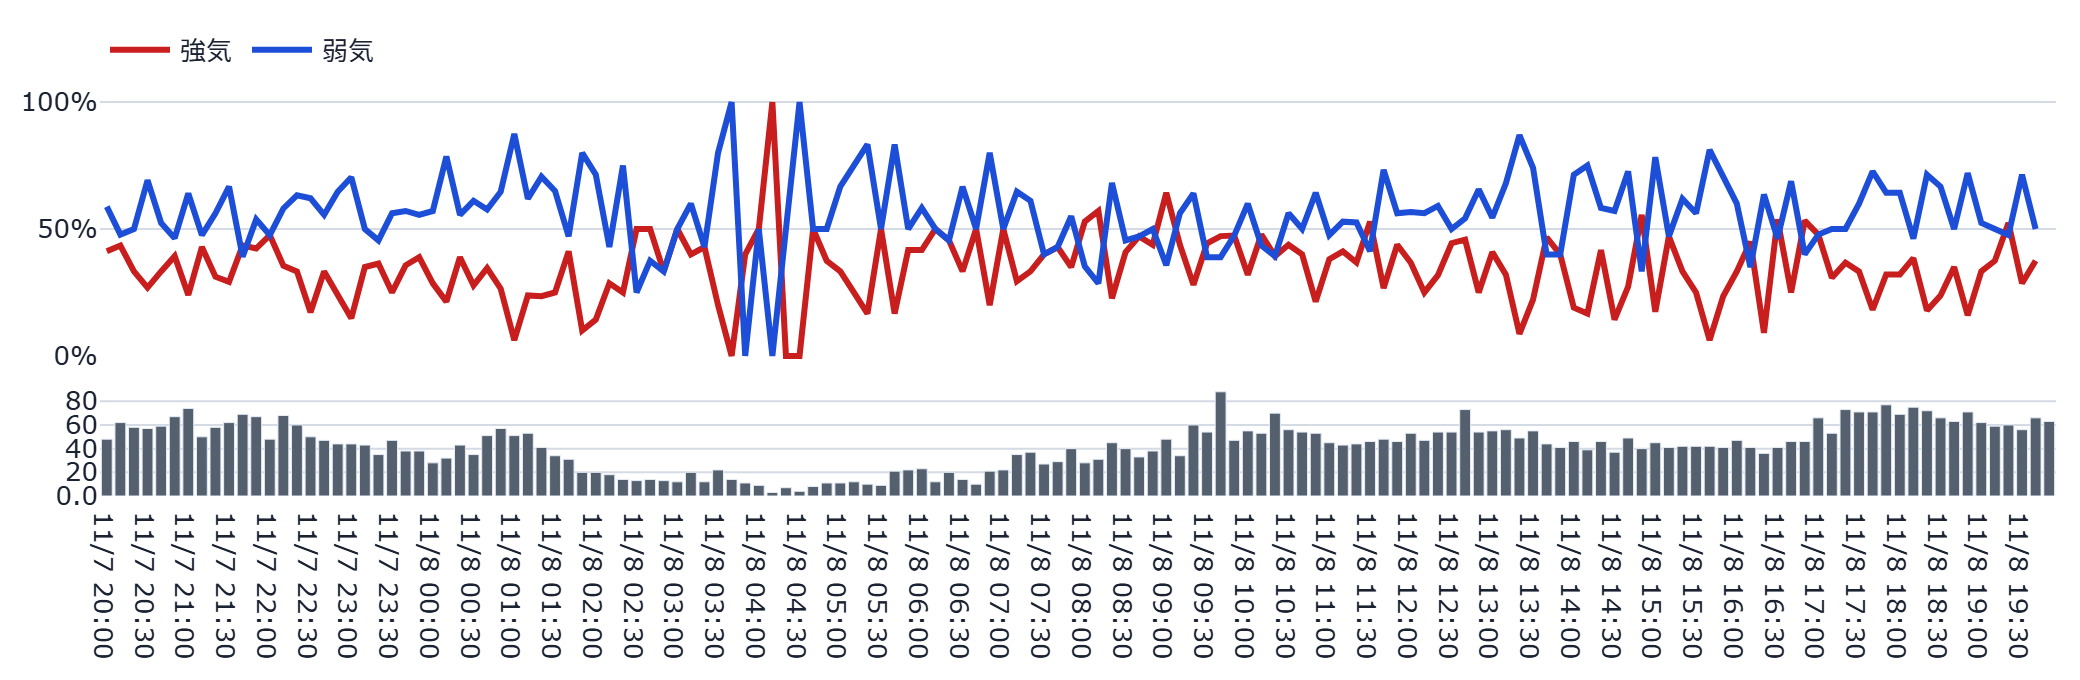
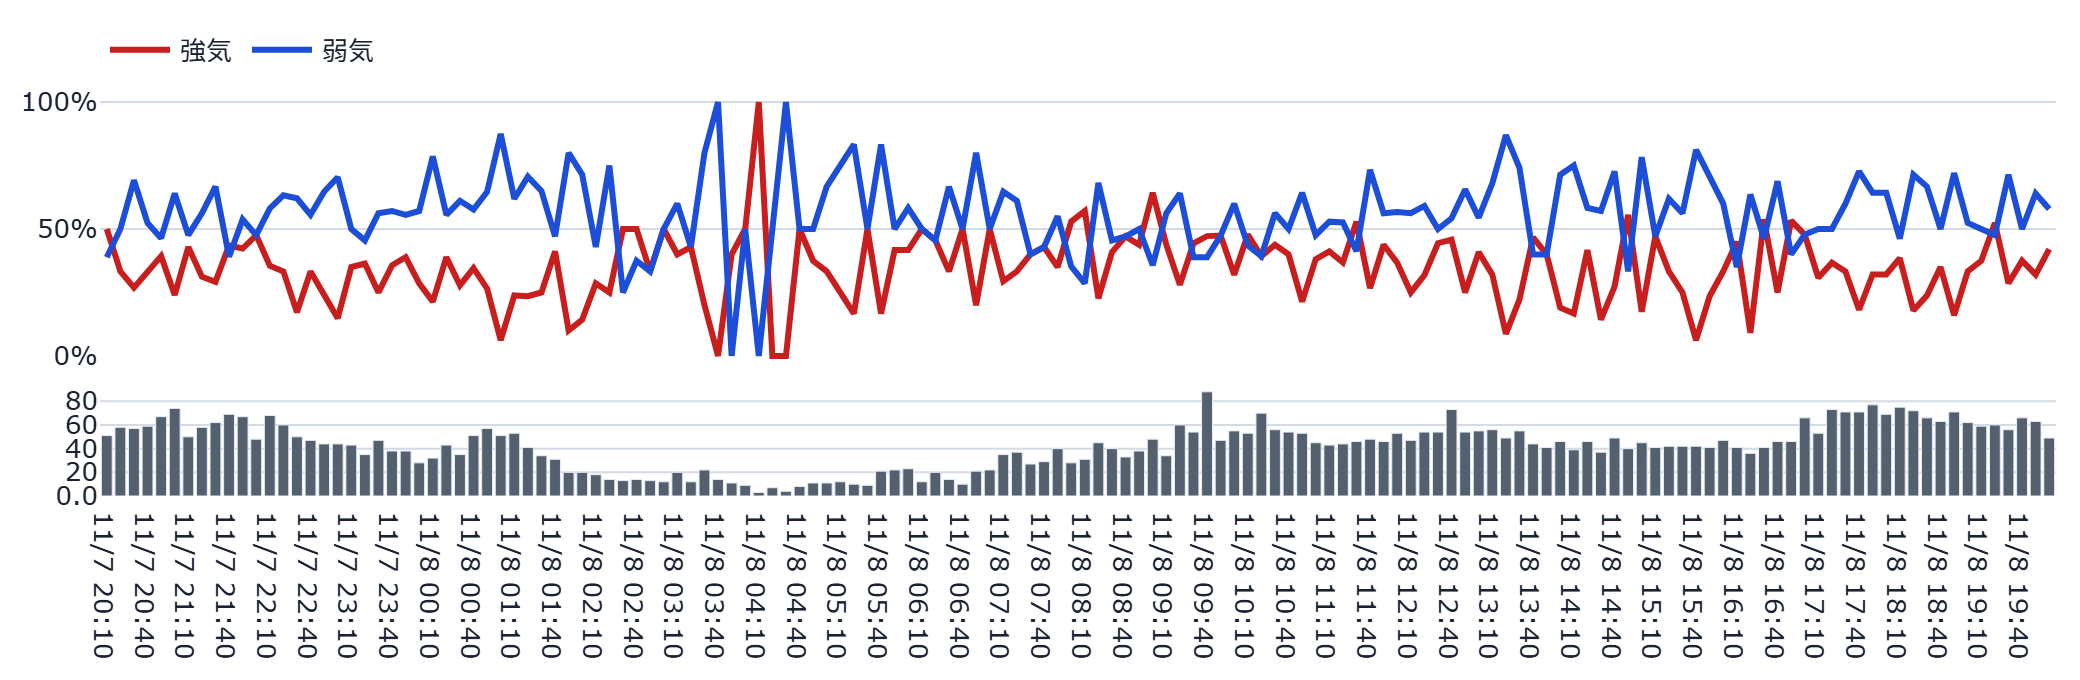
auto: refresh static dashboard (2026-11-08 20:21:00 JST)

diff --git a/docs/index.html b/docs/index.html
@@ -144,10 +144,10 @@
         <span class="price">8,511円</span>
         <span class="chg" style="color:#8B94A3">—</span>
       </div>
-      <p class="caption">更新時刻: 2026-11-08T20:01:11（データは1分間隔で自動生成され、このページも
+      <p class="caption">更新時刻: 2026-11-08T20:11:24（データは1分間隔で自動生成され、このページも
       60秒毎に自動再読み込みされます）</p>
       
-      <p id='visit-count-badge' class='caption'>👀 累計閲覧数: 12,824</p>
+      <p id='visit-count-badge' class='caption'>👀 累計閲覧数: 12,826</p>
       <p id='like-button-wrap' class='caption'><button id='like-button' type='button' style='cursor:pointer;border:1px solid var(--border);border-radius:6px;padding:1px 10px;margin-right:6px;background:var(--panel);color:var(--text);font-size:1em;vertical-align:middle'>👍</button><span id='like-count-label'>このダッシュボードが役に立ったら押してください（累計 4 いいね）</span></p>
 
       <!-- ★2026-09-08追加(ユーザー指示「AI考察はトップに移動」): モニタ
@@ -155,9 +155,9 @@
            常時最上部に表示する。 -->
       <h2>🤖 AI考察</h2>
       <div class='panel' id='ai-schedule'><h3>🗓 AI考察の予定</h3><ul><li>平日の立会日に、寄り前 08:50／寄り直後 09:10／前場引け前 11:30／大引け後 15:45 の4時点で考察を更新します（考察はClaude(AI)が書きます）。</li><li>土日祝などの休場日は考察を書きません。</li><li>時点の間は、数値のみを約10分ごとに更新します（文章は次の時点まで更新されません）。</li><li>次の予定: 11-09 08:50（寄り前）／直近の更新: 11-06 17:31（自動生成）</li></ul></div>
-      <div class='panel' id='numeric-summary'><h3>📊 数値要約｜20:01 更新</h3><ul><li>株価: 8,511円</li><li>掲示板: 強気 34.6%／弱気 56.7%／中立 8.7%・投稿 4,830件（約242件/時）</li><li>シグナル: 発火＝阿鼻叫喚(セリクラ)(40.5)・話題枯れ(-1.19)／警戒＝他銘柄混入率(0.1)・暴落煽り語彙(4)／平常＝灼熱メーター(過熱)(5)・そう思う大量票(19)・イナゴ語彙(euphoria)(1.9)・ネームド集中(0.05)ほか</li><li>変化点: 前回の数値要約から大きな変化なし</li></ul><p class='caption'>強気・弱気は機械判定（辞書＋軽量モデル）の値です。日単位の向きはLM判定と近く（相関0.8台）、時間単位は粗い点に注意してください。</p></div>
+      <div class='panel' id='numeric-summary'><h3>📊 数値要約｜20:11 更新</h3><ul><li>株価: 8,511円</li><li>掲示板: 強気 34.7%／弱気 56.8%／中立 8.5%・投稿 4,879件（約232件/時）</li><li>シグナル: 発火＝阿鼻叫喚(セリクラ)(40.5)・話題枯れ(-1.19)／警戒＝他銘柄混入率(0.1)・暴落煽り語彙(4.2)／平常＝灼熱メーター(過熱)(5)・そう思う大量票(19)・イナゴ語彙(euphoria)(1.9)・ネームド集中(0.05)ほか</li><li>変化点: 前回の数値要約から大きな変化なし</li></ul><p class='caption'>強気・弱気は機械判定（辞書＋軽量モデル）の値です。日単位の向きはLM判定と近く（相関0.8台）、時間単位は粗い点に注意してください。</p></div>
       
-      <div class='metric-row'><div class='metric-card'><div class='metric-label'>株価</div><div class='metric-value'>8,511円</div><div class='metric-delta'>+0円</div></div><div class='metric-card'><div class='metric-label'>強気比率</div><div class='metric-value'>34.6%</div><div class='metric-delta'>+0.0pt</div></div><div class='metric-card'><div class='metric-label'>弱気比率</div><div class='metric-value'>56.7%</div><div class='metric-delta'>+0.0pt</div></div></div><p class='caption'>前回集計(2026-11-08T19:51:18)との比較</p>
+      <div class='metric-row'><div class='metric-card'><div class='metric-label'>株価</div><div class='metric-value'>8,511円</div><div class='metric-delta'>+0円</div></div><div class='metric-card'><div class='metric-label'>強気比率</div><div class='metric-value'>34.7%</div><div class='metric-delta'>+0.1pt</div></div><div class='metric-card'><div class='metric-label'>弱気比率</div><div class='metric-value'>56.8%</div><div class='metric-delta'>+0.1pt</div></div></div><p class='caption'>前回集計(2026-11-08T20:01:11)との比較</p>
       <div class='ai-box'>※無料公開データを機械的に集計した観測情報であり、投資助言・売買推奨ではありません。（11-06 大引け後の整理・17:31時点）<br>
 <br>
 ■ 本日の285A：寄りが遅れた日<br>
@@ -208,7 +208,7 @@
             <h3>ボラ・レジーム帯</h3>
             <figure><img src='images/regime_band.png' alt='ボラ・レジーム帯' loading='lazy'></figure>
             <p class='caption'>現在レジーム: 較正中　(BVP=0.607)</p>
-            <div class='metric-row'><div class='metric-card'><div class='metric-label'>PTS（11/07 01:58）</div><div class='metric-value'>8,725円</div><div class='metric-delta' style='color:#C81E1E'>+2.51%</div></div><div class='metric-card'><div class='metric-label'>米国ADR（11/07 05:59）</div><div class='metric-value'>8,653円</div><div class='metric-delta' style='color:#C81E1E'>+1.67%</div></div><div class='metric-card'><div class='metric-label'>DEX（11/08 20:00）</div><div class='metric-value'>8,643円</div><div class='metric-delta' style='color:#C81E1E'>+1.55%</div></div></div><p class='caption'>PTS=東証取引時間外の私設取引システム／ADR=米国預託証券／DEX=分散型取引所(Hyperliquid)の24時間取引・円換算(東証終値比)。翌営業日の値動きの参考情報です(それ自体が売買シグナルではありません)。</p>
+            <div class='metric-row'><div class='metric-card'><div class='metric-label'>PTS（11/07 01:58）</div><div class='metric-value'>8,725円</div><div class='metric-delta' style='color:#C81E1E'>+2.51%</div></div><div class='metric-card'><div class='metric-label'>米国ADR（11/07 05:59）</div><div class='metric-value'>8,653円</div><div class='metric-delta' style='color:#C81E1E'>+1.67%</div></div><div class='metric-card'><div class='metric-label'>DEX（11/08 20:10）</div><div class='metric-value'>8,651円</div><div class='metric-delta' style='color:#C81E1E'>+1.65%</div></div></div><p class='caption'>PTS=東証取引時間外の私設取引システム／ADR=米国預託証券／DEX=分散型取引所(Hyperliquid)の24時間取引・円換算(東証終値比)。翌営業日の値動きの参考情報です(それ自体が売買シグナルではありません)。</p>
           </div>
         </div>
 
@@ -232,7 +232,7 @@
 <div class='signal-row'><div class='signal-name'>イナゴ語彙(euphoria)<div class='signal-desc'>「爆上げ」「握力」等、熱狂・便乗を示す語彙が投稿にどれだけ含まれるか。</div></div><div class='signal-meta'><div class='signal-note'>euphoria指数1.9/100投稿</div><div><span style='display:inline-block;border-radius:999px;padding:2px 10px;font-size:.82em;font-weight:600;color:#fff;background:#15803D;white-space:nowrap'>OK (現在値1.90 / 閾値&gt;=5.5/100投稿)</span></div><div class='signal-spark'><figure><img src='images/spark_signal_2.png' alt='イナゴ語彙(euphoria)の推移' loading='lazy'></figure></div></div></div>
 <div class='signal-row'><div class='signal-name'>ネームド集中<div class='signal-desc'>特定の常連投稿者(ハッシュ化ID)に投稿が偏っていないか(少数の声が目立ちすぎていないか)。</div></div><div class='signal-meta'><div class='signal-note'>上位5人シェア5%</div><div><span style='display:inline-block;border-radius:999px;padding:2px 10px;font-size:.82em;font-weight:600;color:#fff;background:#15803D;white-space:nowrap'>OK (現在値0.05 / 閾値&gt;=0.1)</span></div><div class='signal-spark'><figure><img src='images/spark_signal_3.png' alt='ネームド集中の推移' loading='lazy'></figure></div></div></div>
 <div class='signal-row'><div class='signal-name'>他銘柄混入率<div class='signal-desc'>本銘柄の掲示板で他の銘柄コードへの言及がどれだけ多いか(関心が他へ移りつつあるサイン)。</div></div><div class='signal-meta'><div class='signal-note'>他銘柄言及10% (関心離散のサイン)</div><div><span style='display:inline-block;border-radius:999px;padding:2px 10px;font-size:.82em;font-weight:600;color:#fff;background:#C2570B;white-space:nowrap'>警戒 (現在値0.10 / 閾値&gt;=0.11(発火)/&gt;=0.08(警戒))</span></div><div class='signal-spark'><figure><img src='images/spark_signal_4.png' alt='他銘柄混入率の推移' loading='lazy'></figure></div></div></div>
-<div class='signal-row'><div class='signal-name'>暴落煽り語彙<div class='signal-desc'>「暴落」「終わった」等、悲観・煽りを示す語彙が投稿にどれだけ含まれるか。</div></div><div class='signal-meta'><div class='signal-note'>煽り指数4.0/100投稿</div><div><span style='display:inline-block;border-radius:999px;padding:2px 10px;font-size:.82em;font-weight:600;color:#fff;background:#C2570B;white-space:nowrap'>警戒 (現在値4.00 / 閾値&gt;=5.0(発火)/&gt;=4.0(警戒)/100投稿)</span></div><div class='signal-spark'><figure><img src='images/spark_signal_5.png' alt='暴落煽り語彙の推移' loading='lazy'></figure></div></div></div>
+<div class='signal-row'><div class='signal-name'>暴落煽り語彙<div class='signal-desc'>「暴落」「終わった」等、悲観・煽りを示す語彙が投稿にどれだけ含まれるか。</div></div><div class='signal-meta'><div class='signal-note'>煽り指数4.2/100投稿</div><div><span style='display:inline-block;border-radius:999px;padding:2px 10px;font-size:.82em;font-weight:600;color:#fff;background:#C2570B;white-space:nowrap'>警戒 (現在値4.20 / 閾値&gt;=5.0(発火)/&gt;=4.0(警戒)/100投稿)</span></div><div class='signal-spark'><figure><img src='images/spark_signal_5.png' alt='暴落煽り語彙の推移' loading='lazy'></figure></div></div></div>
 <div class='signal-row'><div class='signal-name'>阿鼻叫喚(セリクラ)<div class='signal-desc'>株価が安値圏にある中で悲観語彙が急増しているか(セリングクライマックスの兆候)。</div></div><div class='signal-meta'><div class='signal-note'>阿鼻叫喚スコア40.5 安値圏外</div><div><span style='display:inline-block;border-radius:999px;padding:2px 10px;font-size:.82em;font-weight:600;color:#fff;background:#C81E1E;white-space:nowrap'>発火 (現在値40.50 / 閾値&gt;30)</span></div><div class='signal-spark'><figure><img src='images/spark_signal_6.png' alt='阿鼻叫喚(セリクラ)の推移' loading='lazy'></figure></div></div></div>
 <div class='signal-row'><div class='signal-name'>話題枯れ<div class='signal-desc'>過去の平均と比べて本日の投稿数が著しく少ないか(閑散・関心低下のサイン)。</div></div><div class='signal-meta'><div class='signal-note'>投稿数z=-1.19 (負=閑散)</div><div><span style='display:inline-block;border-radius:999px;padding:2px 10px;font-size:.82em;font-weight:600;color:#fff;background:#C81E1E;white-space:nowrap'>発火 (現在値-1.19 / 閾値z&lt;-1.0)</span></div><div class='signal-spark'><figure><img src='images/spark_signal_7.png' alt='話題枯れの推移' loading='lazy'></figure></div></div></div>
 <div class='signal-row'><div class='signal-name'>投稿サージ<div class='signal-desc'>過去の平均と比べて本日の投稿数が著しく多いか(急な注目集中のサイン)。</div></div><div class='signal-meta'><div class='signal-note'>投稿数z=-1.19 (量→ボラ予測が文献の主結果)</div><div><span style='display:inline-block;border-radius:999px;padding:2px 10px;font-size:.82em;font-weight:600;color:#fff;background:#15803D;white-space:nowrap'>OK (現在値-1.19 / 閾値z&gt;2.0)</span></div><div class='signal-spark'><figure><img src='images/spark_signal_8.png' alt='投稿サージの推移' loading='lazy'></figure></div></div></div></div>
@@ -290,7 +290,7 @@
 
       <hr style="border:none;border-top:1px solid var(--border);margin:2rem 0 1rem">
       <p class="caption">⚠ 本情報は掲示板投稿を統計的に集計したものであり、投資助言ではありません。個別の投稿内容は含まれていません。研究・エンタメ用途です。</p>
-      <footer>生成: generate_static_dashboard.py（2026-11-08T20:10:53） /
+      <footer>生成: generate_static_dashboard.py（2026-11-08T20:20:53） /
       画像バックエンド: plotly+kaleido</footer>
     </div>
     <script>(function(){var url="https://script.google.com/macros/s/AKfycbwgSSGQ2n56ohmIYKlNDA1Xe3D8hd3GJbD0U90L4DGtXdb8pqrPokNMHJWjvN1__7bE/exec";var KEY='bbs_visit_counted';var already=sessionStorage.getItem(KEY);var action=already?'read':'hit';var ctrl=(typeof AbortController!=='undefined')?new AbortController():null;var timer=ctrl?setTimeout(function(){ctrl.abort();},5000):null;fetch(url+'?action='+action,{signal:ctrl?ctrl.signal:undefined}).then(function(r){if(timer)clearTimeout(timer);return r.json();}).then(function(data){if(!already)sessionStorage.setItem(KEY,'1');if(data&&typeof data.count==='number'){var el=document.getElementById('visit-count-badge');if(el){el.textContent='\u{1F440} \u7d2f\u8a08\u95b2\u89a7\u6570: '+data.count.toLocaleString();el.style.display='';}}}).catch(function(e){if(timer)clearTimeout(timer);console.warn('visit counter fetch failed (fail-soft):',e);});})();</script><script>(function(){var url="https://script.google.com/macros/s/AKfycbwgSSGQ2n56ohmIYKlNDA1Xe3D8hd3GJbD0U90L4DGtXdb8pqrPokNMHJWjvN1__7bE/exec";var KEY='bbs_liked';var btn=document.getElementById('like-button');var label=document.getElementById('like-count-label');if(!btn||!label)return;function renderLiked(count){btn.disabled=true;btn.style.cursor='default';btn.style.opacity='0.6';btn.textContent='\u2705';label.textContent="\u3044\u3044\u306d\u3057\u307e\u3057\u305f\uff01"+(typeof count==='number'?"\uff08\u7d2f\u8a08 "+count.toLocaleString()+" \u3044\u3044\u306d\uff09":'');}if(localStorage.getItem(KEY)){renderLiked(null);}btn.addEventListener('click',function(){if(localStorage.getItem(KEY))return;btn.disabled=true;var ctrl=(typeof AbortController!=='undefined')?new AbortController():null;var timer=ctrl?setTimeout(function(){ctrl.abort();},5000):null;fetch(url+'?action=like_hit',{signal:ctrl?ctrl.signal:undefined}).then(function(r){if(timer)clearTimeout(timer);return r.json();}).then(function(data){localStorage.setItem(KEY,'1');renderLiked(data&&typeof data.count==='number'?data.count:null);}).catch(function(e){if(timer)clearTimeout(timer);btn.disabled=false;console.warn('like button fetch failed (fail-soft):',e);});});})();</script><script>(function(){var DEFAULT_TAB='overview';function activate(tabName){var buttons=document.querySelectorAll('.tab-bar .tab-btn');var panels=document.querySelectorAll('[data-tab-panel]');if(!buttons.length||!panels.length)return;var matched=false;panels.forEach(function(p){var on=p.getAttribute('data-tab-panel')===tabName;if(on)matched=true;p.classList.toggle('tab-hidden',!on);});if(!matched){panels.forEach(function(p){p.classList.toggle('tab-hidden',p.getAttribute('data-tab-panel')!==DEFAULT_TAB);});tabName=DEFAULT_TAB;}buttons.forEach(function(b){var on=b.getAttribute('data-tab')===tabName;b.classList.toggle('active',on);b.setAttribute('aria-selected',on?'true':'false');});}document.addEventListener('DOMContentLoaded',function(){var bar=document.getElementById('tabBar');if(!bar)return;bar.addEventListener('click',function(e){var btn=e.target.closest('.tab-btn');if(!btn)return;activate(btn.getAttribute('data-tab'));});activate(DEFAULT_TAB);});})();</script></body></html>
